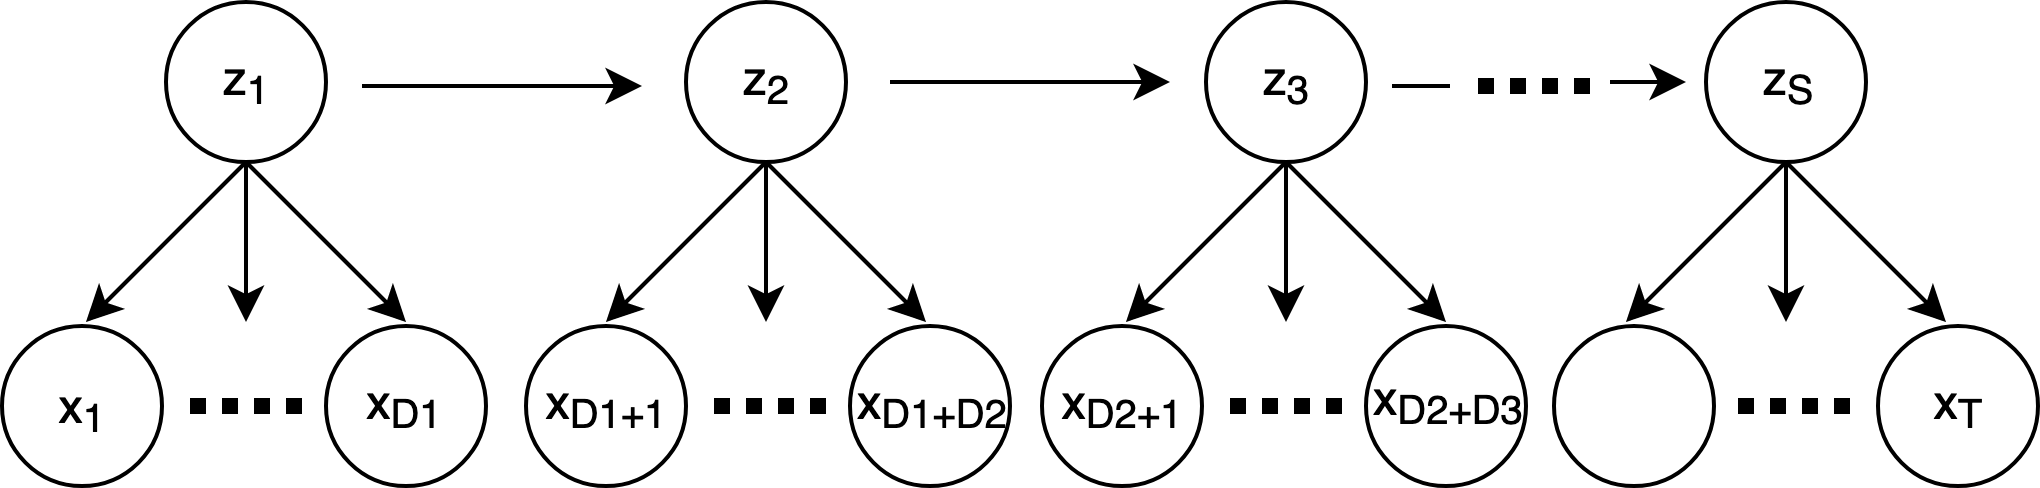
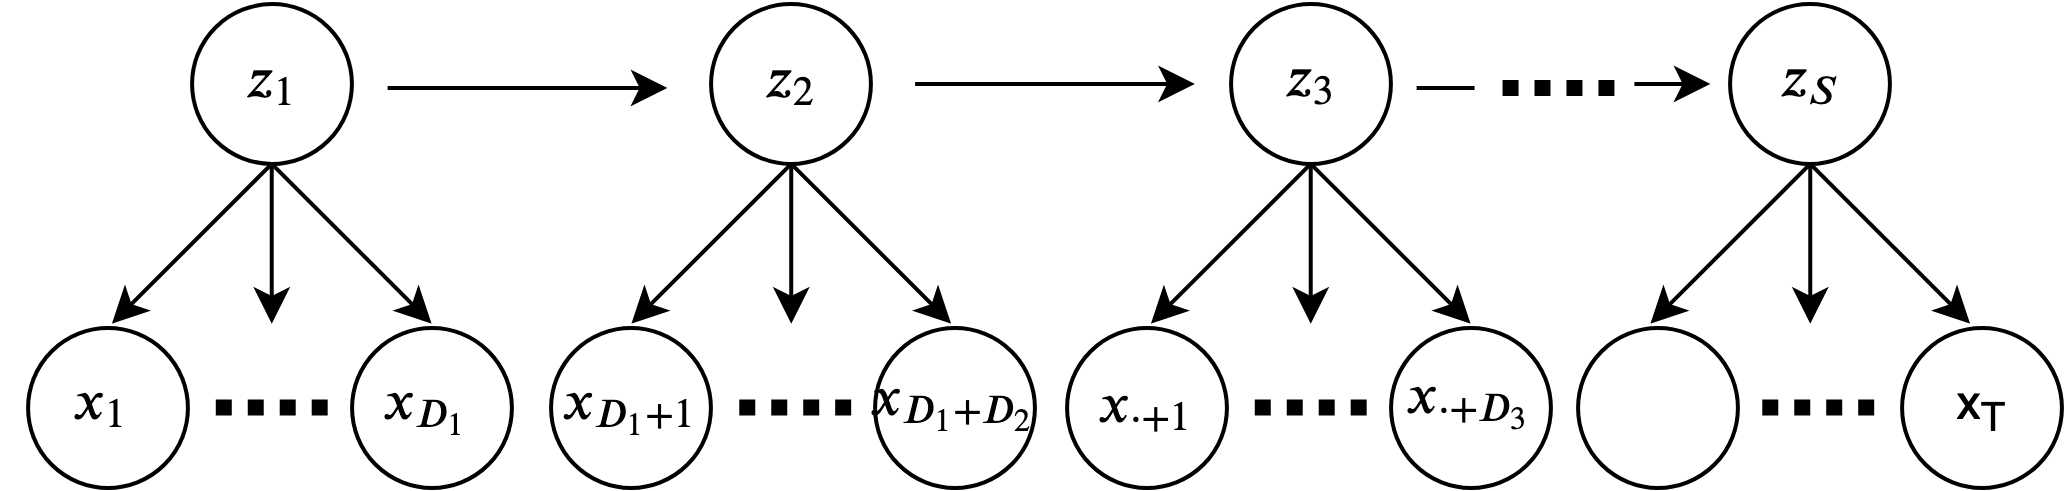
Updated HSMM section of Project.tex

diff --git a/Project.tex b/Project.tex
@@ -93,16 +93,43 @@ A HMM is a model consisting of two sequences:
 The relationship between these two sequences are embedded in the transition probabilities and the emission probabilities of the HMM. In particular, let $\pi_{i,j} = \mathbb{P}(z_{t+1} = j | z_{t} = i)$ denote the probability of an agent transitioning from state $i$ to state $j$, which we assume to be independent of $t$, and $\mathbb{P}(z_t = \zeta | x_t = \xi)$ denote the probability of observing $\zeta$ given state $\xi$. Interpreting these probabilities as parameters of the HMM gives way to a natural parametric Bayesian approach to estimating these probabilities that involves augmenting and then marginalizing the joint distributions of $x$ and $z$, solving for forward and backward recursions, and then computing the maximum likelihood estimates via the Baum Welch algorithm. The transition and emission probabilities can finally be used to compute most-likely trajectories using the Viterbi algorithm.
 
 \subsection{Hidden Semi-Markov Model (HSMM)}
-A HSMM extends a HMM to settings where the sequence of states are not strictly Markovian - instead, the probability of transitioning to a new state $z_{s+1}$ depends on the elapsed time in the current state $z_s$. Here, we introduce $s = 1, \dots, S$ to index state transitions that remain Markovian, and use $t= 1, \dots, T$ to index the associated emissions that are not necessarily Markovian. Then, let $D_s \in [1, \dots, T]$ denote the duration that an agent remains in state $x_s$ with explicit mass function $\mathbb{P}(D_s = d_s | z_s = i)$. Figure 1 illustrates such an explicit-duration HSMM.
+A HSMM extends a HMM to settings where the sequence of states are not strictly Markovian - instead, the probability of transitioning to a new state $z_{s+1}$ depends on the elapsed time in the current state $z_s$. Here, we introduce $s = 1, \dots, S$ to index state transitions that remain Markovian, and use $t= 1, \dots, T$ to index the associated emissions that are not necessarily Markovian. Then, let $D_s \in [1, \dots, T]$ denote the duration that an agent remains in state $x_s$ with explicit mass function $\mathbb{P}(D_s = d_s | z_s = i)$. Figure ~\ref{fig:hsmm} illustrates such an explicit-duration HSMM, where we define $z_s$ as super-states of sub-states $z'_{t}$ which each emit one observation $x_{t}$. It follows that the super-states are Markovian but sub-states are not.
 
 \begin{figure}[H]
 \centering
-\includegraphics[scale=0.15]{images/hsmm.png}
-\caption{HSMM where state transitions are Markovian, while emissions associated with each state follow some explicit duration distribution.}
+\includegraphics[scale=0.15]{images/hsmm2.png}
+\caption{HSMM where super state transitions are Markovian, while emissions associated with each state follow some explicit duration distribution.}
+\label{fig:hsmm}
 \end{figure}
 
-% \paragraph{New preprint option for 2018}
+\subsection{Hierarchical Dirichlet Process HSMM (HDP-HSMM)}
+We begin this section by reviewing the formulation of a hierarchical Dirichlet process HMM (HDP-HMM), which is a Bayesian non-parametric treatment of the classical HMM. A HDP-HMM$(\gamma, \alpha, H)$ model is a process governed by:
+\begin{itemize}
+  \item $\beta_k \coloneqq \beta_k'\cdot \prod_{i=1}^{k-1} (1-\beta_i')$ where $\beta_i' \overset{\text{i.i.d}}{\sim} Beta(1,\gamma)$
+  \item $\pi_k \overset{\text{i.i.d}}{\sim} DP(H(\beta), \alpha)$ for $k = 1, \dots, \infty$ where $\beta = \{\beta_k\}_{k=1}^{\infty}$
+  \item $z_t \sim \pi_{z_{t-1}}$
+  \item $x_t \sim h(\theta_{z_t})$ where $\theta_{k} \sim H$ for $k = 1, \dots, \infty$
+\end{itemize}
+where $\gamma, \alpha > 0$ can be interpreted as concentration parameters and $H$ is the base distribution of the Dirichlet process. Note that $\{\beta_k\}_{k=1}^{\infty}$ is generated from a stick-breaking process with concentration parameter $\gamma$. These are then used in the generation of  transition distributions $\{\pi_k \}_{k=1}^{\infty}$ from a Dirichlet process with parameters $H$ and $\alpha$, where $H$ is defined on the $\{\beta_k\}_{k=1}^{\infty}$ partitions of the measurement set. For $t = 1, \dots, T$, each state $z_t$ is drawn from a respective $\pi_{z_{t-1}}$, and each observation is drawn from an observation distribution $h(\theta_{z_t})$ where $\theta_{k}$ is drawn from $H$. Observe that as $\alpha$ decreases, distributions $\{\pi_k\}_{s=1}^{\infty}$ tend to be more concentrated, and as $\gamma$ decreases, $\{\beta_k\}_{k=1}^{\infty}$ tends to zero and $\{h(\theta_{z_t})\}_{t=1}^{T}$ tends to be more concentrated as a result.
 
+HDP-HSMM is an augmentation of the HDP-HMM to include duration distributions. Continuing from the notation above yields:
+\begin{itemize}
+  \item $\beta_k \coloneqq \beta_k'\cdot \prod_{i=1}^{k-1} (1-\beta_i')$ where $\beta_i' \overset{\text{i.i.d}}{\sim} Beta(1,\gamma)$
+  \item $\pi_k \overset{\text{i.i.d}}{\sim} DP(H(\beta), \alpha)$ for $k = 1, \dots, \infty$ where $\beta = \{\beta_k\}_{k=1}^{\infty}$
+  \item $z_s \sim \tilde{\pi}_{z_{s-1}}$
+  \item $D_s \sim g(\omega_{z_s})$ where $\omega_k \sim G$ for $k = 1, \dots, \infty$
+  \item $z'_{t_{s}:t'_{s}} = z_s$ where $t_{s} = \sum_{s' < s} D_s + 1$ and $t'_{s} = t_{s} + D_s - 1$
+  \item $x_{t_{s}: t'_{s}} \overset{\text{i.i.d}}{\sim} h(\theta_{z'_t})$ where $\theta_{k} \sim H$ for $k = 1, \dots, \infty$
+\end{itemize}
+
+The main differences here are that we introduce a base distribution $G$ for drawing durations $D_s$ in a similar way that $H$ is defined in the HSMM setting which we use for drawing $\pi$. The duration distribution sequence of sub-states $z'_{t_{s}:t'_{s}}$ is set to the corresponding super-state $z_{s}$ where $t_{s}$ is the starting index for the sub-state sequence corresponding to super-state $z_s$, and $t'_{s}$ is the end index for the sub-state sequence corresponding to super-state $z_s$. The observation sequence is then drawn from the sub-state sequence using $H$. Note that $z_s$ is drawn from $\tilde{pi}_{k} \coloneqq \frac{\pi_{k,j}}{1-\pi_{k,k}}(1 - \delta_{k,j})$, which normalizes $\pi_k$ to prevent self-transitions in the super-state sequence $z_s$. Figure ~\ref{fig:hdphsmm} extends the previous HSMM diagram to illustrate the connections between the HDP component of the model, and the HSMM.
+
+\begin{figure}[H]
+\centering
+\includegraphics[scale=0.12]{images/hdphsmm.png}
+\caption{HDP-HSMM incorporates a HDP component into a HSMM}
+\label{fig:hdphsmm}
+\end{figure}
 
 \section{Simulating Robot States and Observations}
 
